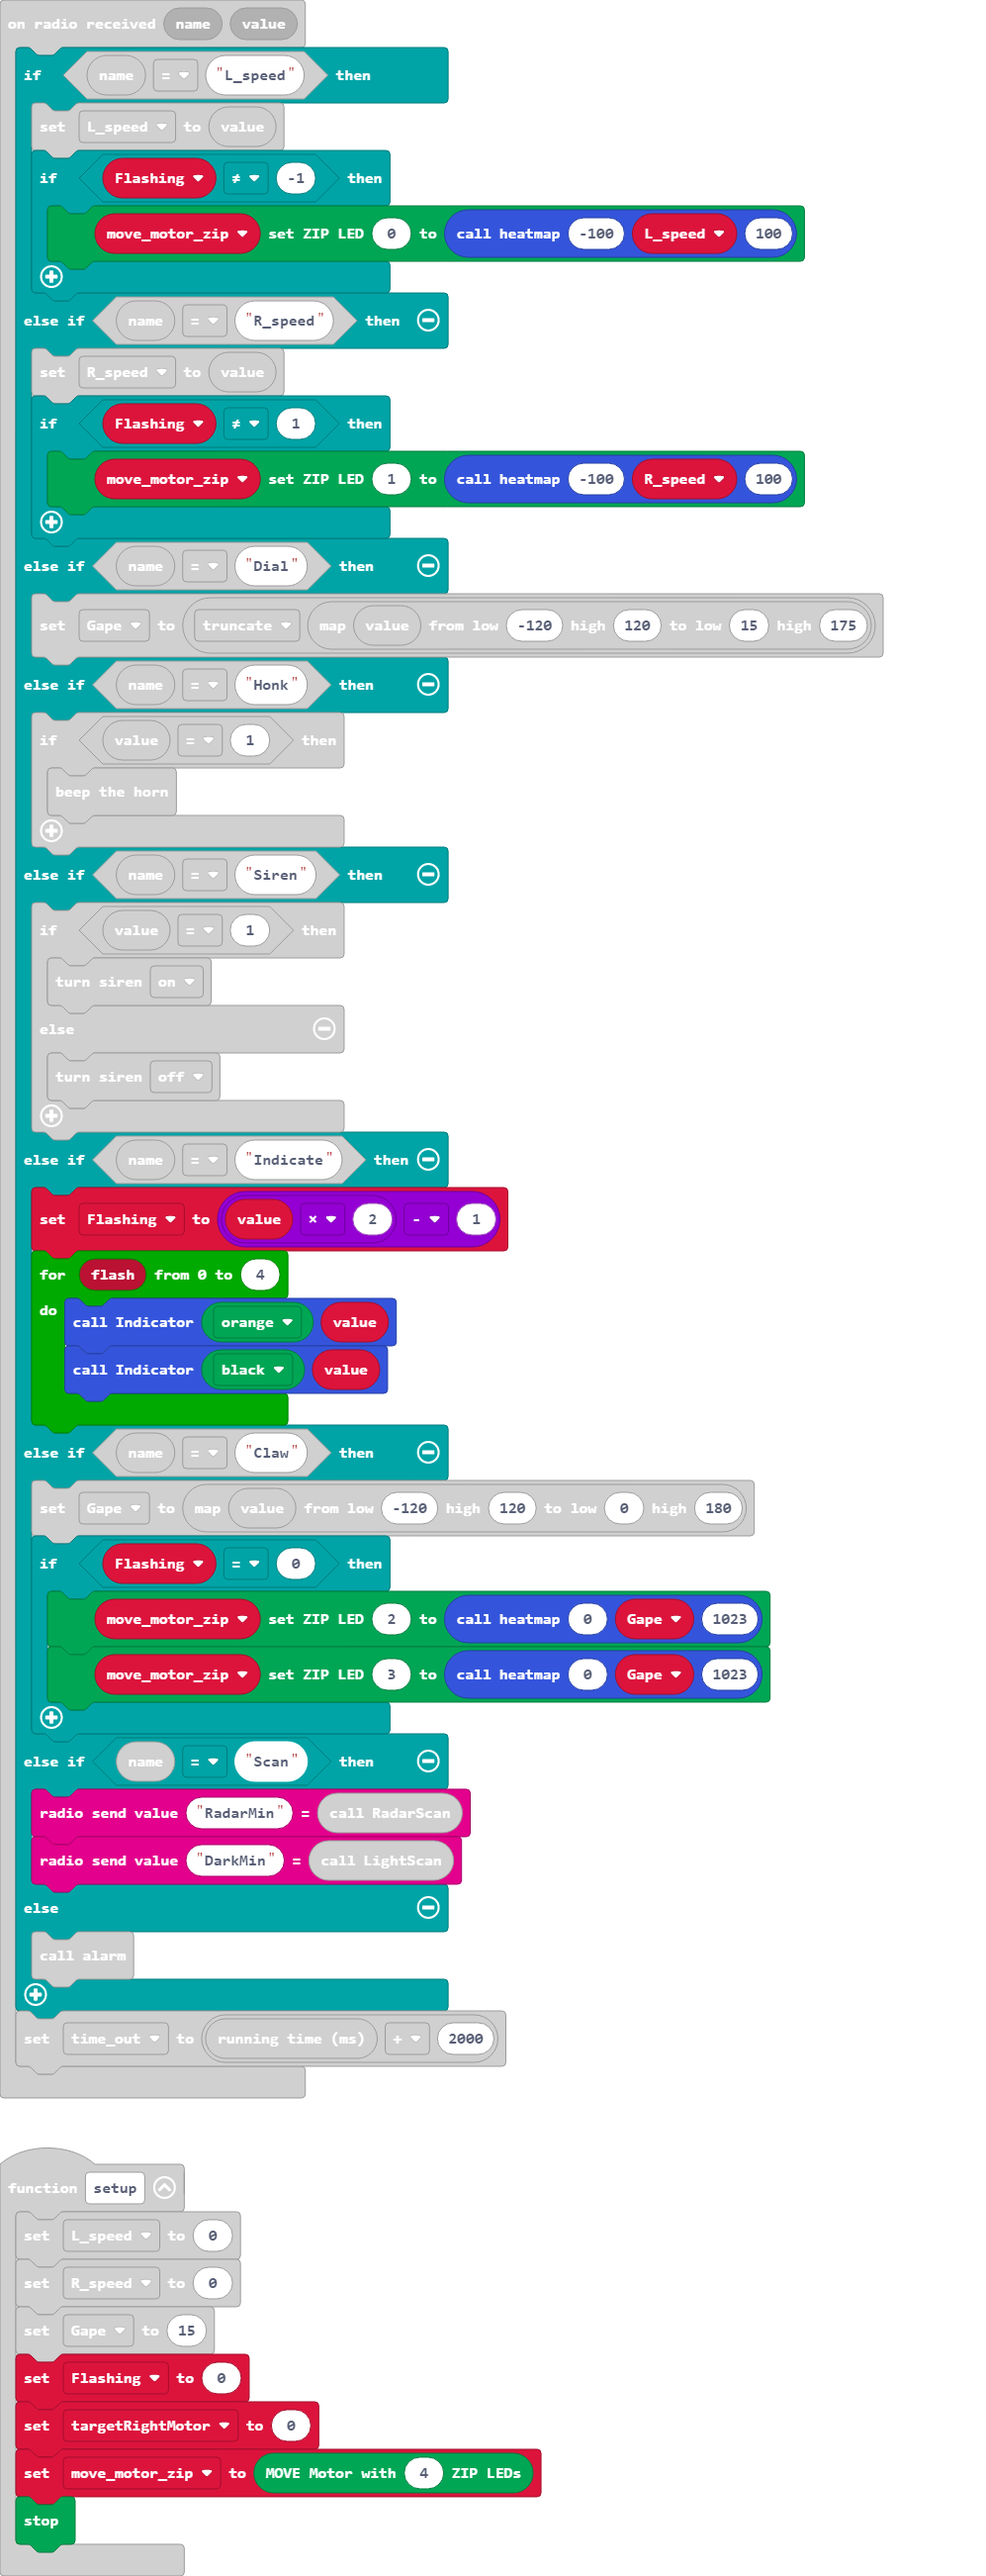
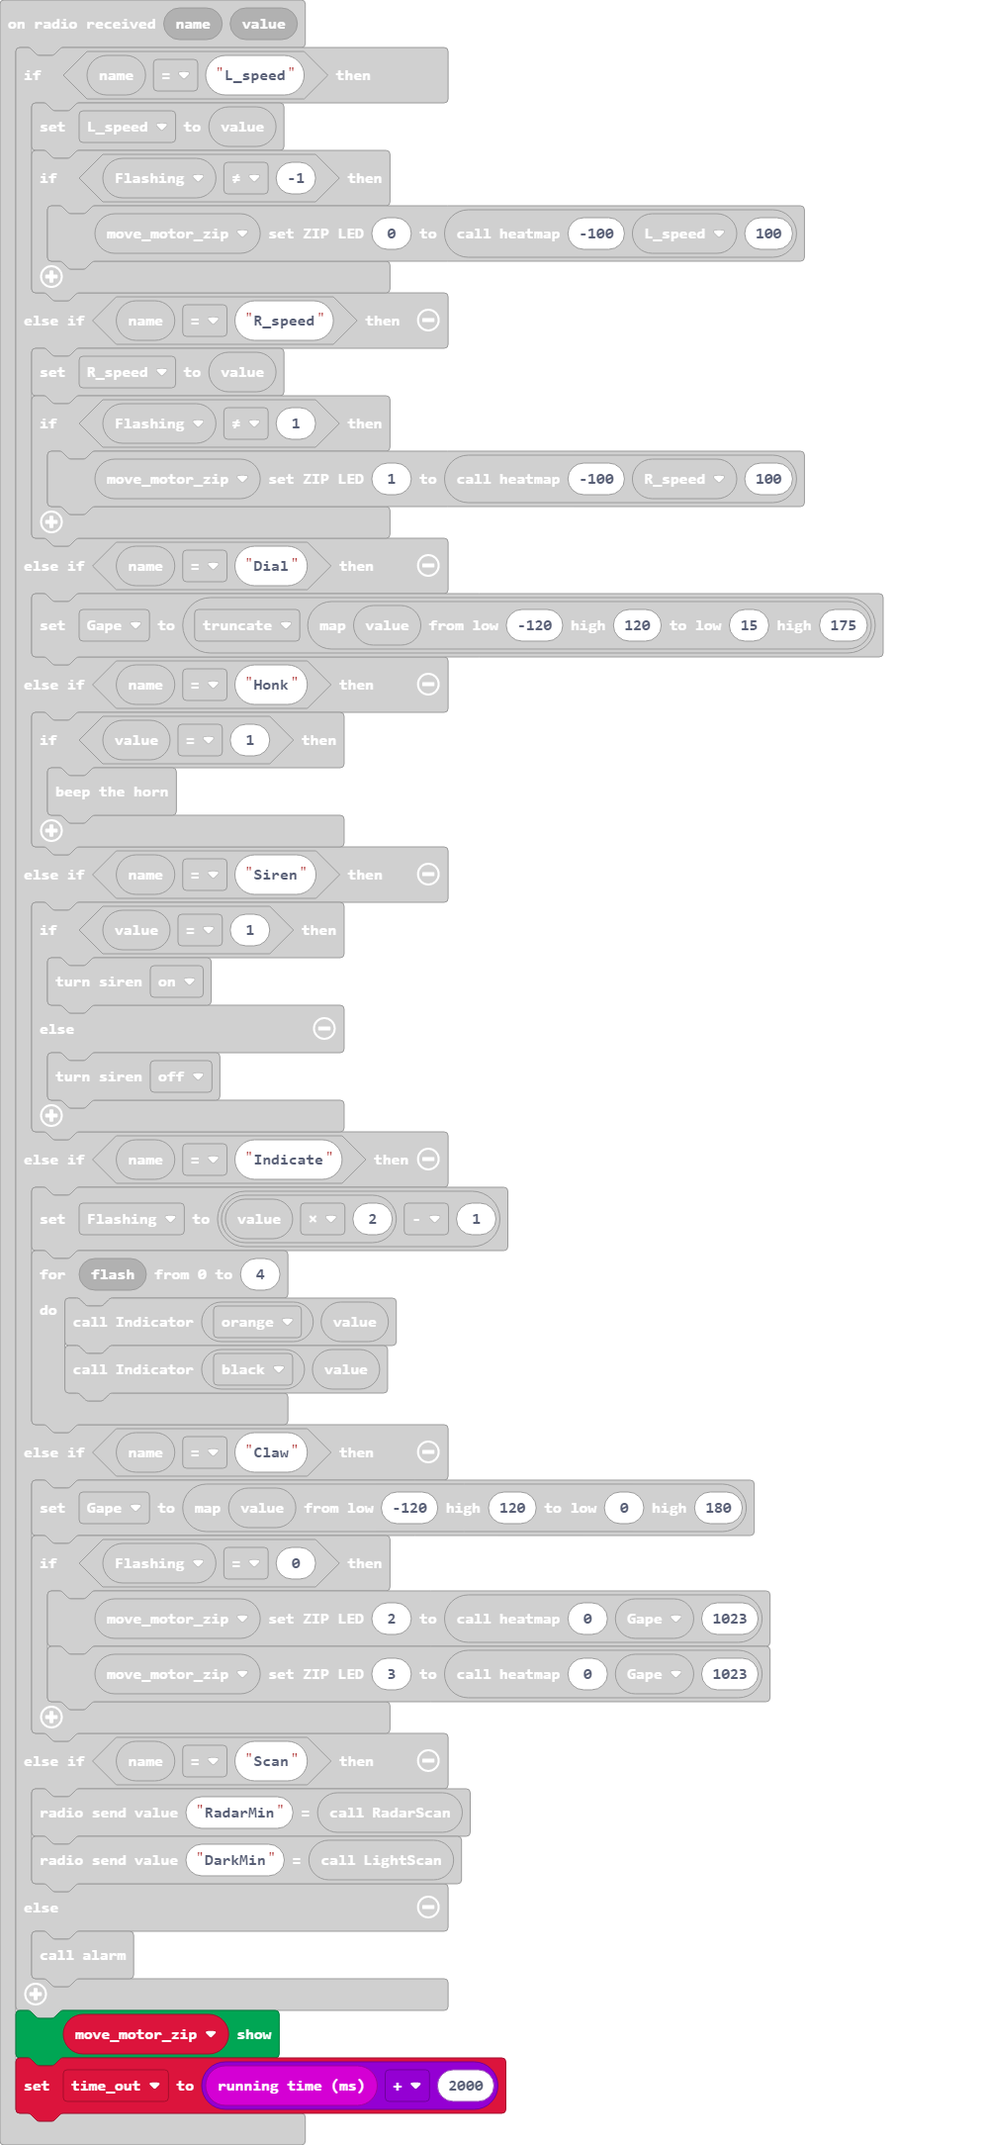
Always Show LEDs

diff --git a/main.ts b/main.ts
@@ -133,6 +133,7 @@ radio.onReceivedValue(function (name, value) {
     } else {
         alarm()
     }
+    move_motor_zip.show()
     time_out = input.runningTime() + 2000
 })
 function RadarScan () {
